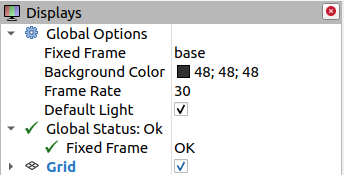
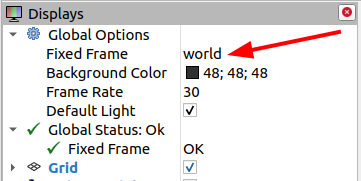
Update rviz screenshot to use world frame

Changed region(s): [[0.0, 0.0, 1.0, 1.0], [0.4942, 0.7714, 0.5814, 1.0]]

diff --git a/doc/multiple_robot_arms/multiple_robot_arms_tutorial.rst b/doc/multiple_robot_arms/multiple_robot_arms_tutorial.rst
@@ -57,7 +57,7 @@ Notes:
     <xacro:macro name="franka_arm" params="arm_id:='panda' description_pkg:='franka_description' connected_to:='' xyz:='0 0 0' rpy:='0 0 0' gazebo:=false safety_distance:=0 joint_limits" >
 
 
-We can search those parameters in the xacro macro to understand the function of each. The ``arm_id`` sets a prefix to the arm name to enable reusing the same model. This is essential for our purpose of modeling multiple robots. The ``connected_to`` parameter allows the robot base to be attached to a given link. In our multiple arms model, each robot is connected to a box-shaped base. The gazebo parameter determines whether to load the gazebo simulation required information (e.g links inertias and joints transmissions) or not. 
+We can search those parameters in the xacro macro to understand the function of each. The ``arm_id`` sets a prefix to the arm name to enable reusing the same model. This is essential for our purpose of modeling multiple robots. The ``connected_to`` parameter allows the robot base to be attached to a given link. In our multiple arms model, each robot is connected to a box-shaped base. The ``gazebo`` parameter determines whether to load the gazebo simulation required information (e.g links inertias and joints transmissions) or not. 
 
 After knowing the xacro macro for the arm, and understanding the input parameters, we can use it as follows to load the arms. ::
 
@@ -68,7 +68,7 @@ After knowing the xacro macro for the arm, and understanding the input parameter
 
 The same way applies to loading the grippers/hands models, and other robots that are defined with xacro macros. 
 
-At this point, it is recommended to check our xacro model is working as expected. This can be done in three simple steps; convert your xacro model to URDF, check the connections between links and joints are correct, and visualize the model. Run the following commands to build your panda_multiple_arms package and check the xacro model has no problems. ::
+At this point, it is recommended to check our xacro model is working as expected. This can be done in three simple steps; convert your xacro model to URDF, check the connections between links and joints are correct, and visualize the model. Run the following commands to build your ``panda_multiple_arms`` package and check the xacro model has no problems. ::
     
     cd ~/ws_moveit
     catkin build 
@@ -134,7 +134,7 @@ To visually check your multiple robot arm model, run the command: ::
 
     roslaunch urdf_tutorial display.launch model:=panda_multiple_arms.urdf
 
-Once Rviz GUI starts, set the fixed frame on the upper left corner to be ``base``. 
+Once Rviz GUI starts, set the fixed frame on the upper left corner to be ``world``. 
 
 .. image:: images/rviz_fixed_frame.png
    :width: 300pt
